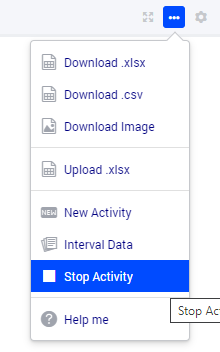
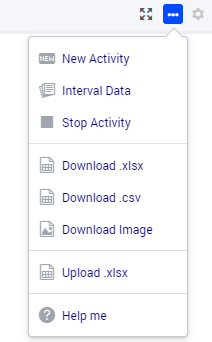
#4036: The order of the items in the Kebab menu was changed.

diff --git a/webui/table-widget.rst b/webui/table-widget.rst
@@ -111,7 +111,7 @@ Because the header menu of the Table widget had become a bit cluttered after add
 .. image:: images/Kebab-menu-full.png
     :align: center
 
-The menu is divided into four sections. The top one contains the download options, the second one the upload option, the third one the custom widget actions and the bottom one includes the help menu. This help menu is only displayed for app developers and it takes you to the documentation of the specific widget. There is one other item which may appear in the menu: the cogwheel, alias the settings menu. This is the case in end-user mode with the UI Editable option switched on (so the position of it is less prominent than in app developer mode).
+The menu is divided into four sections. The top one contains the custom widget actions (in case these are present), the second one the download options, the third one the upload option and the bottom one includes the help menu. This help menu is only displayed for app developers and it takes you to the documentation of the specific widget. There is one other item which may appear at the bottom of the menu: the cogwheel, alias the settings menu. This is the case in end-user mode with the UI Editable option switched on (so the position of it is less prominent than in app developer mode).
 
 Download Table Data to CSV File
 -------------------------------
